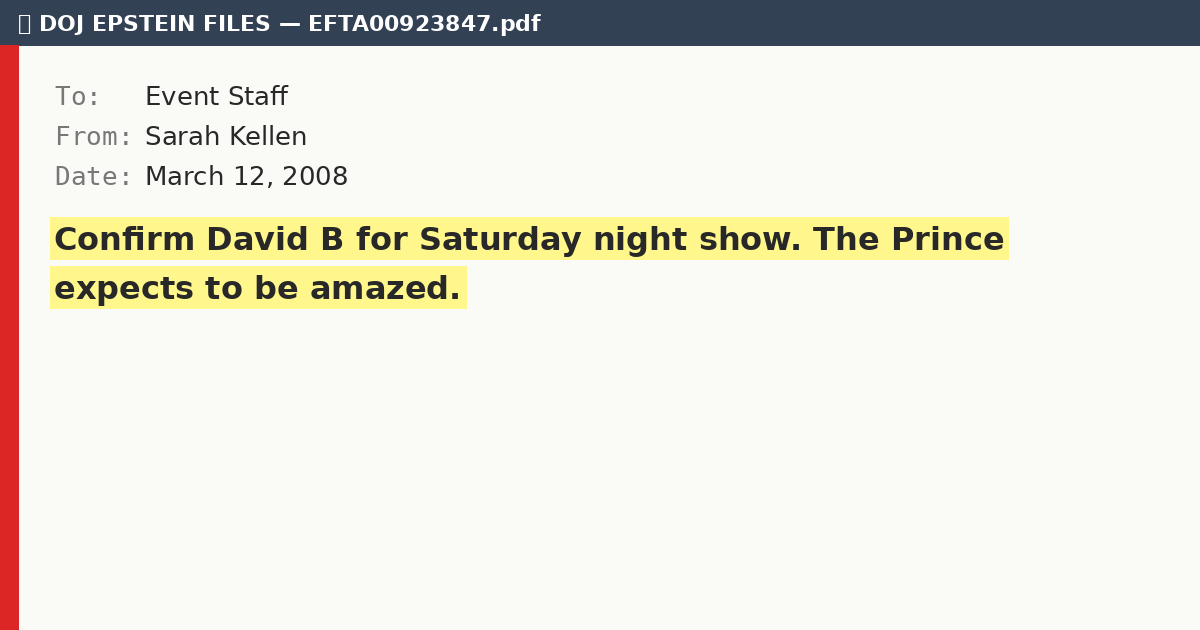
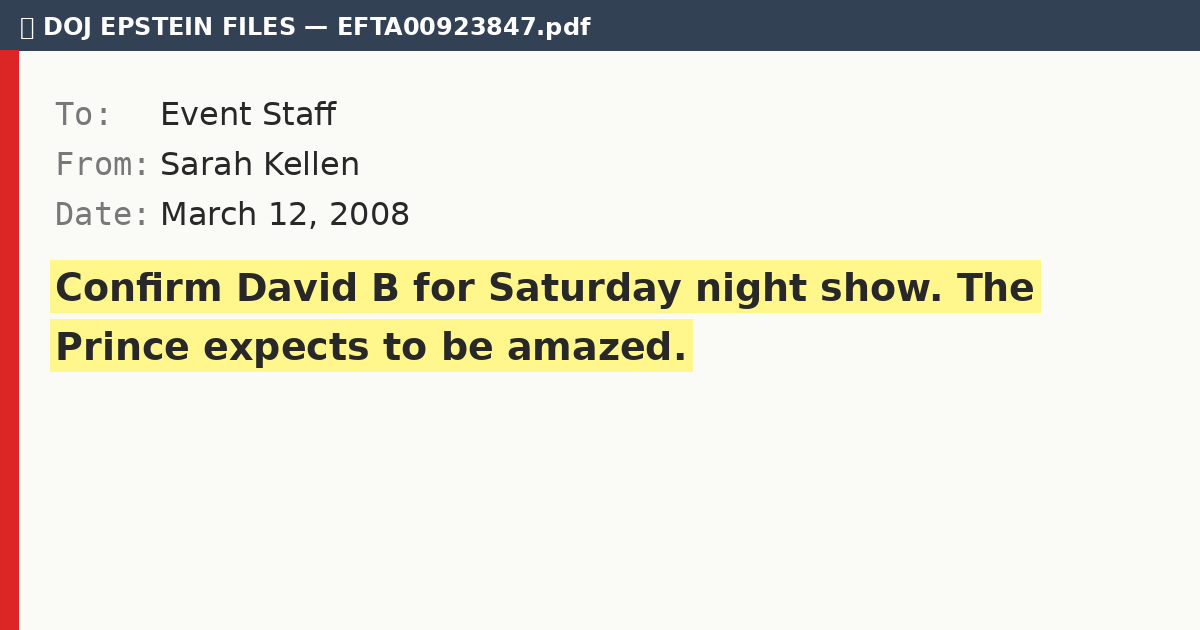
Increase thumbnail text size for better readability
- Increased font sizes: header 24pt, labels/values 32pt, highlight 38pt
- Increased spacing between email fields (50px instead of 40px)
- Larger highlight text with more padding
- Regenerated all 5 new article thumbnails
- Updated SKILL.md and create_thumbnail.py with correct sizes

Changed region(s): [[0.0308, 0.1206, 0.8942, 0.6032], [0.0, 0.0, 1.0, 0.0905]]

diff --git a/.skills/epstein-article-generator/references/create_thumbnail.py b/.skills/epstein-article-generator/references/create_thumbnail.py
@@ -37,42 +37,42 @@ def create_thumbnail(filename, doc_id, to_field, from_field, date_field, highlig
     img = Image.new('RGB', (WIDTH, HEIGHT), (250, 250, 247))
     draw = ImageDraw.Draw(img)
 
-    # Load fonts
+    # Load fonts - LARGE sizes for readability
     try:
-        font_header = ImageFont.truetype("/usr/share/fonts/truetype/dejavu/DejaVuSans-Bold.ttf", 22)
-        font_label = ImageFont.truetype("/usr/share/fonts/truetype/dejavu/DejaVuSansMono.ttf", 26)
-        font_value = ImageFont.truetype("/usr/share/fonts/truetype/dejavu/DejaVuSans.ttf", 26)
-        font_highlight = ImageFont.truetype("/usr/share/fonts/truetype/dejavu/DejaVuSans-Bold.ttf", 32)
+        font_header = ImageFont.truetype("/usr/share/fonts/truetype/dejavu/DejaVuSans-Bold.ttf", 24)
+        font_label = ImageFont.truetype("/usr/share/fonts/truetype/dejavu/DejaVuSansMono.ttf", 32)
+        font_value = ImageFont.truetype("/usr/share/fonts/truetype/dejavu/DejaVuSans.ttf", 32)
+        font_highlight = ImageFont.truetype("/usr/share/fonts/truetype/dejavu/DejaVuSans-Bold.ttf", 38)
     except:
         font_header = font_label = font_value = font_highlight = ImageFont.load_default()
 
     # Dark slate header bar
-    draw.rectangle([(0, 0), (WIDTH, 45)], fill=(51, 65, 85))
+    draw.rectangle([(0, 0), (WIDTH, 50)], fill=(51, 65, 85))
     header_text = f"📁 DOJ EPSTEIN FILES — {doc_id}"
-    draw.text((18, 10), header_text, font=font_header, fill=(255, 255, 255))
+    draw.text((20, 12), header_text, font=font_header, fill=(255, 255, 255))
 
     # Red accent bar on left side (below header)
-    draw.rectangle([(0, 45), (18, HEIGHT)], fill=(220, 38, 38))
+    draw.rectangle([(0, 50), (18, HEIGHT)], fill=(220, 38, 38))
 
-    # Email metadata
-    y = 80
+    # Email metadata - larger spacing
+    y = 95
     label_color = (120, 120, 120)  # Gray for labels
     value_color = (40, 40, 40)      # Dark for values
 
     # To field
     draw.text((55, y), "To:", font=font_label, fill=label_color)
-    draw.text((145, y), to_field, font=font_value, fill=value_color)
-    y += 40
+    draw.text((160, y), to_field, font=font_value, fill=value_color)
+    y += 50
 
     # From field
     draw.text((55, y), "From:", font=font_label, fill=label_color)
-    draw.text((145, y), from_field, font=font_value, fill=value_color)
-    y += 40
+    draw.text((160, y), from_field, font=font_value, fill=value_color)
+    y += 50
 
     # Date field
     draw.text((55, y), "Date:", font=font_label, fill=label_color)
-    draw.text((145, y), date_field, font=font_value, fill=value_color)
-    y += 60
+    draw.text((160, y), date_field, font=font_value, fill=value_color)
+    y += 70
 
     # Word wrap the highlight text
     max_width = WIDTH - 120
@@ -97,9 +97,9 @@ def create_thumbnail(filename, doc_id, to_field, from_field, date_field, highlig
         line_width = line_bbox[2] - line_bbox[0]
         line_height = line_bbox[3] - line_bbox[1]
         # Yellow highlight background
-        draw.rectangle([(50, y - 3), (58 + line_width, y + line_height + 8)], fill=(255, 247, 140))
-        draw.text((54, y), line, font=font_highlight, fill=(40, 40, 40))
-        y += line_height + 18
+        draw.rectangle([(50, y - 5), (60 + line_width, y + line_height + 10)], fill=(255, 247, 140))
+        draw.text((55, y), line, font=font_highlight, fill=(40, 40, 40))
+        y += line_height + 22
 
     # Ensure output directory exists
     os.makedirs(OUTPUT_DIR, exist_ok=True)

diff --git a/.skills/epstein-article-generator/SKILL.md b/.skills/epstein-article-generator/SKILL.md
@@ -96,38 +96,38 @@ def create_thumbnail(filename, doc_id, to_field, from_field, date_field, highlig
     img = Image.new('RGB', (WIDTH, HEIGHT), (250, 250, 247))
     draw = ImageDraw.Draw(img)
 
-    # Load fonts
+    # Load fonts - LARGE sizes for readability
     try:
-        font_header = ImageFont.truetype("/usr/share/fonts/truetype/dejavu/DejaVuSans-Bold.ttf", 22)
-        font_label = ImageFont.truetype("/usr/share/fonts/truetype/dejavu/DejaVuSansMono.ttf", 26)
-        font_value = ImageFont.truetype("/usr/share/fonts/truetype/dejavu/DejaVuSans.ttf", 26)
-        font_highlight = ImageFont.truetype("/usr/share/fonts/truetype/dejavu/DejaVuSans-Bold.ttf", 32)
+        font_header = ImageFont.truetype("/usr/share/fonts/truetype/dejavu/DejaVuSans-Bold.ttf", 24)
+        font_label = ImageFont.truetype("/usr/share/fonts/truetype/dejavu/DejaVuSansMono.ttf", 32)
+        font_value = ImageFont.truetype("/usr/share/fonts/truetype/dejavu/DejaVuSans.ttf", 32)
+        font_highlight = ImageFont.truetype("/usr/share/fonts/truetype/dejavu/DejaVuSans-Bold.ttf", 38)
     except:
         font_header = font_label = font_value = font_highlight = ImageFont.load_default()
 
     # Dark slate header bar
-    draw.rectangle([(0, 0), (WIDTH, 45)], fill=(51, 65, 85))
-    draw.text((18, 10), f"📁 DOJ EPSTEIN FILES — {doc_id}", font=font_header, fill=(255, 255, 255))
+    draw.rectangle([(0, 0), (WIDTH, 50)], fill=(51, 65, 85))
+    draw.text((20, 12), f"📁 DOJ EPSTEIN FILES — {doc_id}", font=font_header, fill=(255, 255, 255))
 
     # Red accent bar on left (below header)
-    draw.rectangle([(0, 45), (18, HEIGHT)], fill=(220, 38, 38))
+    draw.rectangle([(0, 50), (18, HEIGHT)], fill=(220, 38, 38))
 
-    # Email metadata
-    y = 80
+    # Email metadata - larger spacing
+    y = 95
     label_color = (120, 120, 120)
     value_color = (40, 40, 40)
 
     draw.text((55, y), "To:", font=font_label, fill=label_color)
-    draw.text((145, y), to_field, font=font_value, fill=value_color)
-    y += 40
+    draw.text((160, y), to_field, font=font_value, fill=value_color)
+    y += 50
 
     draw.text((55, y), "From:", font=font_label, fill=label_color)
-    draw.text((145, y), from_field, font=font_value, fill=value_color)
-    y += 40
+    draw.text((160, y), from_field, font=font_value, fill=value_color)
+    y += 50
 
     draw.text((55, y), "Date:", font=font_label, fill=label_color)
-    draw.text((145, y), date_field, font=font_value, fill=value_color)
-    y += 60
+    draw.text((160, y), date_field, font=font_value, fill=value_color)
+    y += 70
 
     # Word wrap the highlight text
     max_width = WIDTH - 120
@@ -151,9 +151,9 @@ def create_thumbnail(filename, doc_id, to_field, from_field, date_field, highlig
         line_bbox = draw.textbbox((0, 0), line, font=font_highlight)
         line_width = line_bbox[2] - line_bbox[0]
         line_height = line_bbox[3] - line_bbox[1]
-        draw.rectangle([(50, y - 3), (58 + line_width, y + line_height + 8)], fill=(255, 247, 140))
-        draw.text((54, y), line, font=font_highlight, fill=(40, 40, 40))
-        y += line_height + 18
+        draw.rectangle([(50, y - 5), (60 + line_width, y + line_height + 10)], fill=(255, 247, 140))
+        draw.text((55, y), line, font=font_highlight, fill=(40, 40, 40))
+        y += line_height + 22
 
     # Save to images folder
     os.makedirs("images", exist_ok=True)
